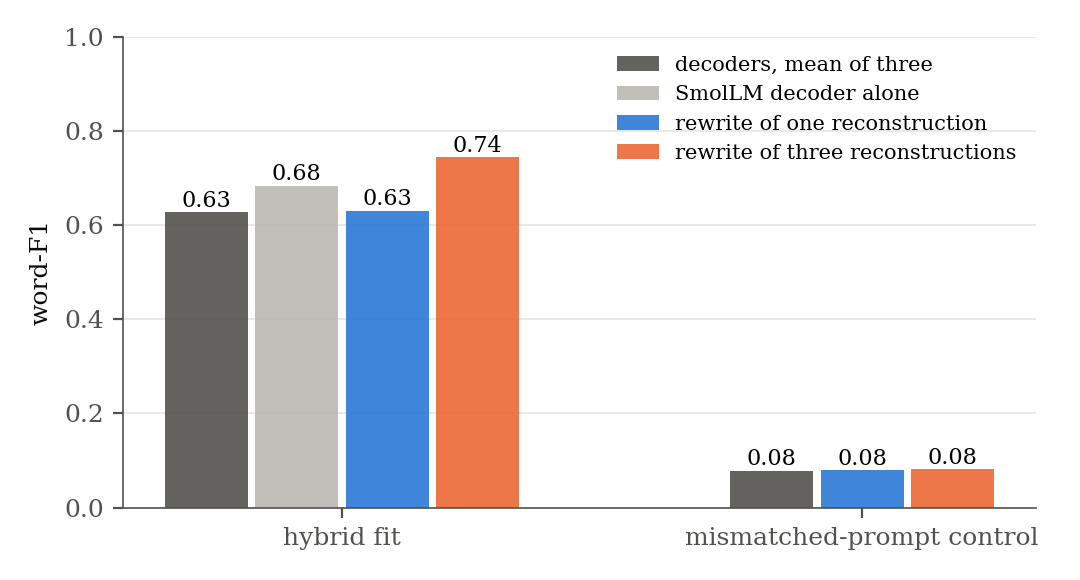
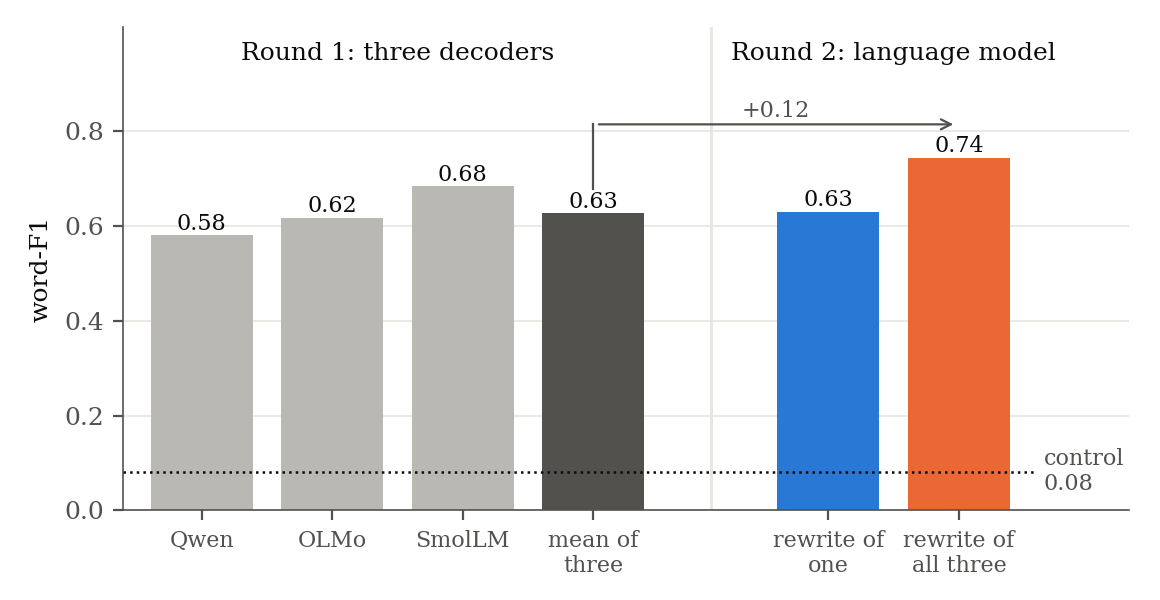
rewriting figure drawn by round: three decoders, then the language model

diff --git a/figures/scripts/make_figures.py b/figures/scripts/make_figures.py
@@ -196,40 +196,42 @@ def standard():
 
 
 def rewriting():
-    """Word-F1 before and after the second-round language model on legal10w, 90-row leak, 450 selection prompts."""
+    """Two rounds on legal10w, 90-row leak, 450 selection prompts: the three decoders, then the language model."""
     d = load("results/legal10w/v7_2/main/framework/attacker/attacker-b90-a0.9-sq-m0-t0.1476-r1-B8192-L90-span9-s1-haiku.json")
     assert d["prompts_reported"] == 450 and d["model"].startswith("claude-haiku")
     t = d["table"]
-    smollm = 0.6839  # SmolLM alone, recomputed from the endpoint decoding on the same 450 prompts (not stored in the file)
-    groups = [
-        ("hybrid fit", [("decoders, mean of three", INK2, t["hybrid rung B"]["word_f1"]["before"]),
-                        ("SmolLM decoder alone", "#b9b8b3", smollm),
-                        ("rewrite of one reconstruction", BLUE, t["hybrid rung A"]["word_f1"]["after"]),
-                        ("rewrite of three reconstructions", ORANGE, t["hybrid rung B"]["word_f1"]["after"])]),
-        ("mismatched-prompt control", [("decoders, mean of three", INK2, t["wrong memory rung B"]["word_f1"]["before"]),
-                                       ("rewrite of one reconstruction", BLUE, t["wrong memory rung A"]["word_f1"]["after"]),
-                                       ("rewrite of three reconstructions", ORANGE, t["wrong memory rung B"]["word_f1"]["after"])]),
-    ]
-    fig, ax = plt.subplots(figsize=(5.4, 2.9))
-    width, centers, seen = 0.2, [], set()
-    for i, (name, barsg) in enumerate(groups):
-        x0 = i * 1.15
-        centers.append(x0)
-        for k, (label, color, v) in enumerate(barsg):
-            x = x0 + (k - (len(barsg) - 1) / 2) * width
-            ax.bar(x, v, width * 0.92, color=color, alpha=0.9, label=None if label in seen else label)
-            seen.add(label)
-            ax.annotate(f"{v:.2f}", (x, v), xytext=(0, 2), textcoords="offset points", ha="center", fontsize=8)
-        print(name, [round(v, 4) for _, _, v in barsg])
-    ax.set_xticks(centers)
-    ax.set_xticklabels([g[0] for g in groups])
-    ax.set_ylim(0, 1.0)
+    # per-decoder scores recomputed from the endpoint decoding on the same 450 prompts (not stored in the file)
+    qwen, olmo, smollm = 0.5804, 0.6176, 0.6839
+    mean3 = t["hybrid rung B"]["word_f1"]["before"]
+    assert abs((qwen + olmo + smollm) / 3 - mean3) < 5e-4
+    one, three = t["hybrid rung A"]["word_f1"]["after"], t["hybrid rung B"]["word_f1"]["after"]
+    control = t["wrong memory rung B"]["word_f1"]["after"]
+    GREY = "#b9b8b3"
+    bars_ = [(0.0, qwen, GREY, "Qwen"), (1.0, olmo, GREY, "OLMo"), (2.0, smollm, GREY, "SmolLM"), (3.0, mean3, INK2, "mean of\nthree"),
+             (4.8, one, BLUE, "rewrite of\none"), (5.8, three, ORANGE, "rewrite of\nall three")]
+    fig, ax = plt.subplots(figsize=(5.8, 3.0))
+    for x, v, color, _ in bars_:
+        ax.bar(x, v, 0.78, color=color)
+        ax.annotate(f"{v:.2f}", (x, v), xytext=(0, 2), textcoords="offset points", ha="center", fontsize=8, color=INK)
+    ax.axvline(3.9, color=GRID, lw=1.0)
+    ax.text(1.5, 0.95, "Round 1: three decoders", ha="center", fontsize=9, color=INK)
+    ax.text(5.3, 0.95, "Round 2: language model", ha="center", fontsize=9, color=INK)
+    ax.annotate("", (5.8, three + 0.07), (3.0, three + 0.07), arrowprops=dict(arrowstyle="->", color=INK2, lw=0.8))
+    ax.plot([3.0, 3.0], [mean3 + 0.05, three + 0.07], color=INK2, lw=0.8)
+    ax.text(4.4, three + 0.085, f"+{three - mean3:.2f}", ha="center", fontsize=8, color=INK2)
+    ax.plot([-0.6, 6.4], [control, control], color=INK, lw=0.9, ls=":", zorder=5)
+    ax.text(6.45, control, f"control\n{control:.2f}", ha="left", va="center", fontsize=8, color=INK2)
+    ax.set_xticks([b[0] for b in bars_])
+    ax.set_xticklabels([b[3] for b in bars_], fontsize=8)
+    ax.set_xlim(-0.6, 7.1)
+    ax.set_ylim(0, 1.02)
+    ax.set_yticks([0, 0.2, 0.4, 0.6, 0.8])
     ax.set_ylabel("word-F1")
     ax.grid(axis="y")
     ax.set_axisbelow(True)
-    ax.legend(loc="upper right", fontsize=7.5)
     fig.tight_layout()
     save(fig, "ch4/rewriting")
+    print("rewriting", qwen, olmo, smollm, round(mean3, 4), round(one, 4), round(three, 4), round(control, 4))
 
 
 def cross_entropy():

diff --git a/chapters/ch4_weak_supervised_attack/s9_rewriting.tex b/chapters/ch4_weak_supervised_attack/s9_rewriting.tex
@@ -21,8 +21,10 @@ Under the mismatched-prompt control, word-F1 stays at \vf{0.08}, so the gain dep
 \begin{figure}[ht]
 \centering
 \includegraphics[width=0.8\textwidth]{ch4/rewriting}
-\caption{Rewriting three reconstructions raises word-F1 on legal10w from \vf{0.63} to \vf{0.74}, above the best single decoder, and adds nothing under the mismatched-prompt control.
-Word-F1 on lower-cased words without edge punctuation, \vf{450} selection prompts, hybrid fit of the main comparison at the \vf{90}-row leak, rewriting by Claude Haiku~\vf{5.5}.}
+\caption{The second round raises word-F1 on legal10w from \vf{0.63}, the mean of the three decoders, to \vf{0.74}, above the best single decoder.
+Round 1 is the three decoders on the hybrid fit of the main comparison at the \vf{90}-row leak; round 2 is Claude Haiku~\vf{5.5} rewriting one reconstruction (averaged over the three decoders) or all three.
+The dotted line is the rewrite of all three reconstructions under the mismatched-prompt control.
+Word-F1 on lower-cased words without edge punctuation, \vf{450} selection prompts.}
 \label{fig:attack:rewriting}
 \end{figure}
 
